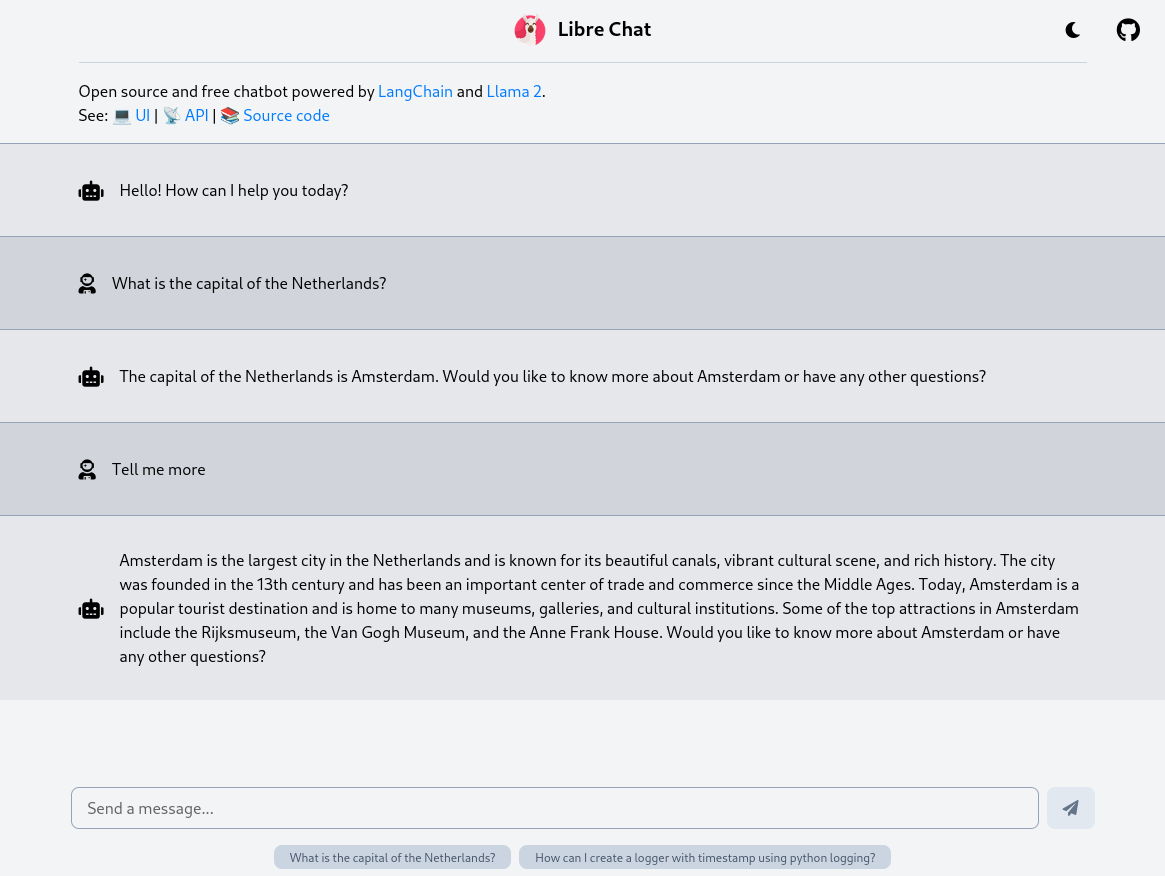
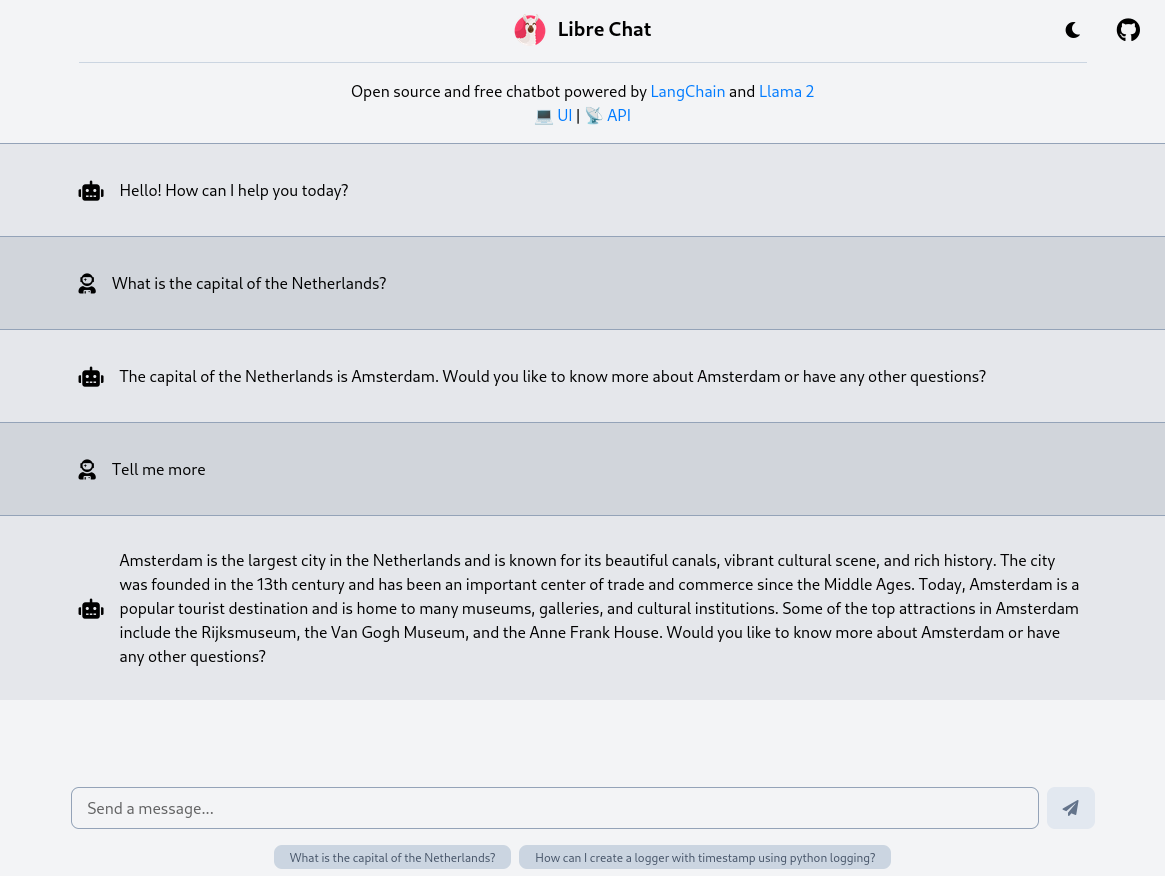
better docs

Changed region(s): [[0.0618, 0.0925, 0.6798, 0.1541]]

diff --git a/src/libre_chat/templates/index.html b/src/libre_chat/templates/index.html
@@ -41,7 +41,7 @@
                         </a>
                     </div>
                 </div>
-                <div id="description" class="py-4">
+                <div id="description" class="py-4 text-center">
                     {{ description }}
                 </div>
             </div>

diff --git a/src/libre_chat/chat_conf.py b/src/libre_chat/chat_conf.py
@@ -23,9 +23,9 @@ class SettingsInfo(BaseSettings):
     examples: List[str] = ["What is the capital of the Netherlands?"]
     title: str = "Libre Chat"
     version: str = "0.1.0"
-    description: str = """Open source and free chatbot powered by [LangChain](https://python.langchain.com) and [Llama 2](https://ai.meta.com/llama).
+    description: str = """Open source and free chatbot powered by [LangChain](https://python.langchain.com) and [Llama 2](https://ai.meta.com/llama)
 
-See: [💻 UI](/) | [📡 API](/docs) | [📚 Source code](https://github.com/vemonet/libre-chat)"""
+[💻 UI](/) | [📡 API](/docs)"""
     public_url: str = "https://your-endpoint-url"
     repository_url: str = "https://github.com/vemonet/libre-chat"
     favicon: str = "https://raw.github.com/vemonet/libre-chat/main/docs/assets/logo.png"

diff --git a/tests/test_api.py b/tests/test_api.py
@@ -7,7 +7,7 @@ from tests.main import app
 client = TestClient(app)
 
 
-def test_post_prompt_conversational() -> None:
+def test_post_prompt_conversation() -> None:
     """Test POST prompt using model with a generic LLM"""
     prompt = {"prompt": "What is the capital of the Netherlands?"}
     response = client.post(
@@ -20,7 +20,7 @@ def test_post_prompt_conversational() -> None:
     assert "amsterdam" in resp["result"].lower()
 
 
-def test_get_prompt_conversational() -> None:
+def test_get_prompt_conversation() -> None:
     """Test GET prompt using model with a generic LLM"""
     prompt = {"prompt": "What is the capital of the Netherlands?"}
     response = client.get("/prompt", params={"prompt": prompt})

diff --git a/src/libre_chat/__main__.py b/src/libre_chat/__main__.py
@@ -28,7 +28,6 @@ def start(
     log_config = uvicorn.config.LOGGING_CONFIG
     log_config["formatters"]["access"]["fmt"] = log_format
     log_config["formatters"]["default"]["fmt"] = log_format
-
     conf = parse_config(config)
     llm = Llm(conf=conf)
     app = ChatEndpoint(llm=llm, conf=conf)
@@ -39,7 +38,6 @@ def start(
         reload=False,
         log_level=log_level,
         workers=workers,
-        # log_config=log_config,
     )
 
 

diff --git a/docs/development.md b/docs/development.md
@@ -20,13 +20,7 @@ For development we use [Hatch](https://hatch.pypa.io), this will automatically h
 pipx install hatch
 ```
 
-Download pre-trained model and embeddings for local development:
-
-```bash
-tests/download.sh
-```
-
-??? note "Optionally you can improve `hatch` terminal completion"
+??? info "Optionally you can enable `hatch` terminal completion"
 
     See the [official documentation](https://hatch.pypa.io/latest/cli/about/#tab-completion) for more details. For ZSH you can run these commands:
 
@@ -38,13 +32,13 @@ tests/download.sh
 
 ## 🧑💻 Development workflow
 
-Start a conversational chat web service in development, without vectorstore:
+Start a conversational chat web service, without vectorstore:
 
 ```bash
 hatch run dev
 ```
 
-Start a documents-based question answering agent in development, using a vectorstore:
+Start a documents-based question answering agent, using a vectorstore:
 
 ```bash
 hatch run vector
@@ -52,7 +46,7 @@ hatch run vector
 
 ## ✅ Run the tests
 
-Make sure the existing tests still work by running the test suite and linting checks. Note that any pull requests to the repository on github will automatically trigger running of the test suite.
+Make sure the existing tests still work by running the test suite, types, and linting checks. Note that any pull requests to the repository on github will automatically trigger running of the test suite.
 
 Run the tests locally:
 
@@ -60,35 +54,31 @@ Run the tests locally:
 hatch run test
 ```
 
-To display all logs when debugging:
+Run only a specific test, and display all logs:
 
 ```bash
-hatch run test -s
+hatch run test tests/test_api.py::test_post_prompt_conversation -s
 ```
 
-Run the tests on multiple python versions:
+??? example "Run the tests on the different versions of python available on your machine"
 
-```bash
-hatch run all:test
-```
+    Not required as it is done by the GitHub Actions workflow, but can be useful for debugging:
 
-Run only a specific test:
-
-```bash
-hatch run test tests/test_api.py::test_post_prompt_conversational
-```
+    ```bash
+    hatch run all:test
+    ```
 
 ## 📖 Generate docs
 
 The documentation (this website) is automatically generated from the markdown files in the `docs` folder and python docstring comments, and published by a GitHub Actions workflow.
 
-Serve the docs on [http://localhost:8001](http://localhost:8001){:target="_blank"}
+To check it locally, serve the docs on [http://localhost:8001](http://localhost:8001){:target="_blank"} with:
 
 ```bash
 hatch run docs
 ```
 
-### ♻ Reset the environment
+## ♻ Reset the environment
 
 In case you are facing issues with dependencies not updating properly you can easily reset the virtual environment with:
 
@@ -104,8 +94,41 @@ hatch -v env create
 
 ## 🏷 Publish a new release
 
+The deployment of new releases is done automatically by a GitHub Actions workflow when a new release is created on GitHub. To release a new version:
+
 1. Make sure the `PYPI_TOKEN` secret has been defined in the GitHub repository (in Settings > Secrets > Actions). You can get an API token from PyPI at [pypi.org/manage/account](https://pypi.org/manage/account).
-2. Increment the `__version__` in `libre_chat/__init__.py`
-3. Push to GitHub
-4. Create a new release on GitHub
-5. A GitHub Action workflow will automatically publish the new version to PyPI
+
+2. Increment the `version` number in the `src/libre_chat/__init__.py` file:
+
+    ```bash
+    hatch version 0.1.0
+    # Or bump using semver: patch, minor, major
+    hatch version patch
+    ```
+
+3. Commit, push, and create a new release on GitHub, which will automatically trigger a workflow to publish the new release to PyPI.
+
+??? bug "Or perform the release locally"
+
+    1. Update the version:
+
+        ```bash
+        hatch version 0.1.0
+        # Or bump using semver: patch, minor, major
+        hatch version patch
+        ```
+
+    2. Build and publish:
+
+        ```bash
+        hatch build
+        hatch publish
+        ```
+
+    3. Create the release on GitHub, [manually](https://github.com/vemonet/libre-chat/releases/new) or with the [`gh` CLI](https://cli.github.com/):
+
+        ```bash
+        gh release create
+        ```
+
+<!-- Admonition blocks: https://squidfunk.github.io/mkdocs-material/reference/admonitions/#supported-types -->

diff --git a/docs/index.md b/docs/index.md
@@ -1,8 +1,5 @@
 [![Version](https://img.shields.io/pypi/v/libre-chat)](https://pypi.org/project/libre-chat) [![Python versions](https://img.shields.io/pypi/pyversions/libre-chat)](https://pypi.org/project/libre-chat) [![Image size](https://ghcr-badge.egpl.dev/vemonet/libre-chat/size)](https://github.com/vemonet/libre-chat/pkgs/container/libre-chat){:target="_blank"} [![MIT license](https://img.shields.io/pypi/l/libre-chat)](https://github.com/vemonet/libre-chat/blob/main/LICENSE.txt)
 
-!!! warning "Early stage"
-	Development on this project has just started, use it with caution
-
 Easily configure and deploy a **fully self-hosted chatbot web service** based on open source Large Language Models (LLMs), such as [Llama 2](https://ai.meta.com/llama/), without the need for knowledge in machine learning or programmation.
 
 - 🌐 Free and Open Source chatbot web service with UI and API
@@ -10,8 +7,8 @@ Easily configure and deploy a **fully self-hosted chatbot web service** based on
 - 🚀 Easy to setup, no need to program, just configure the service with a [YAML](https://yaml.org/) file, and start the chat web service with 1 command
 - 📦 Available as a `pip` package 🐍, or `docker` image 🐳
 - ⚡ No need for GPU, this will work even on your laptop CPU (but can take up to 1min to answer on recent laptops, works better on a server)
-- 🦜 Use [`LangChain`](https://python.langchain.com) to support performant open source models inference: all [Llama-2-GGML](https://huggingface.co/TheBloke/Llama-2-7B-Chat-GGML) ([7B](https://huggingface.co/TheBloke/Llama-2-7B-Chat-GGML)/[13B](https://huggingface.co/llamaste/Llama-2-13b-chat-hf)/[70B](https://huggingface.co/llamaste/Llama-2-70b-chat-hf)), all [Llama-2-GPTQ](https://huggingface.co/TheBloke/Llama-2-7b-Chat-GPTQ)
-- 🤖 Various type of agents can be deployed:
+- 🦜 Use [`LangChain`](https://python.langchain.com) to support performant open source models inference: all **Llama 2 GGML** ([7B](https://huggingface.co/TheBloke/Llama-2-7B-Chat-GGML) | [13B](https://huggingface.co/llamaste/Llama-2-13b-chat-hf) | [70B](https://huggingface.co/llamaste/Llama-2-70b-chat-hf)), all **Llama 2 GPTQ** ([7B](https://huggingface.co/TheBloke/Llama-2-7B-chat-GPTQ) | [13B](https://huggingface.co/TheBloke/Llama-2-13B-chat-GPTQ) | [70B](https://huggingface.co/TheBloke/Llama-2-70B-chat-GPTQ))
+- 🤖 Various types of agents can be deployed:
     - **💬 Generic conversation**: do not need any additional training, just configure settings such as the template prompt
     - **📚 Documents-based question answering**: automatically build similarity vectors from locally provided PDF documents, the chatbot will use them to answer your question, and return which documents were used to generate the answer.
 
@@ -21,6 +18,9 @@ Easily configure and deploy a **fully self-hosted chatbot web service** based on
 ![UI screenshot](https://raw.github.com/vemonet/libre-chat/main/docs/assets/screenshot.png)
 
 ![UI screenshot](https://raw.github.com/vemonet/libre-chat/main/docs/assets/screenshot-light.png)
+
+!!! warning "Early stage"
+	Development on this project has just started, use it with caution
 
 ## ℹ How it works
 
@@ -37,6 +37,16 @@ Seasoned developers can also manipulate LLM models, and deploy the API in python
 !!! help "Report issues"
 
     Feel free to create [issues on GitHub](https://github.com/vemonet/libre-chat/issues){:target="_blank"}, if you are facing problems, have a question, or would like to see a feature implemented. Pull requests are welcome!
+
+## 📥 Download supported models
+
+* Llama 2 GGML: [7B](https://huggingface.co/TheBloke/Llama-2-7B-Chat-GGML) | [13B](https://huggingface.co/llamaste/Llama-2-13b-chat-hf) | [70B](https://huggingface.co/llamaste/Llama-2-70b-chat-hf)
+
+* Llama 2 GPTQ: [7B](https://huggingface.co/TheBloke/Llama-2-7B-chat-GPTQ) | [13B](https://huggingface.co/TheBloke/Llama-2-13B-chat-GPTQ) | [70B](https://huggingface.co/TheBloke/Llama-2-70B-chat-GPTQ)
+
+!!! Question "Supporting other models"
+
+    Let us know if you managed to run other models with Libre Chat, or if you would like to see a specific model supported.
 
 <!--
 

diff --git a/README.md b/README.md
@@ -17,8 +17,8 @@ Easily configure and deploy a **fully self-hosted chatbot web service** based on
 - 🚀 Easy to setup, no need to program, just configure the service with a [YAML](https://yaml.org/) file, and start it with 1 command
 - 📦 Available as a `pip` package 🐍, or `docker` image 🐳
 - ⚡ No need for GPU, this will work even on your laptop CPU (but can take up to 1min to answer on recent laptops, works better on a server)
-- 🦜 Use [`LangChain`](https://python.langchain.com) to support performant open source models inference: all [Llama-2-GGML](https://huggingface.co/TheBloke/Llama-2-7B-Chat-GGML) ([7B](https://huggingface.co/TheBloke/Llama-2-7B-Chat-GGML)/[13B](https://huggingface.co/llamaste/Llama-2-13b-chat-hf)/[70B](https://huggingface.co/llamaste/Llama-2-70b-chat-hf)), all [Llama-2-GPTQ](https://huggingface.co/TheBloke/Llama-2-7b-Chat-GPTQ)
-- 🤖 Various type of agents can be deployed:
+- 🦜 Use [`LangChain`](https://python.langchain.com) to support performant open source models inference: all **Llama 2 GGML** ([7B](https://huggingface.co/TheBloke/Llama-2-7B-Chat-GGML) | [13B](https://huggingface.co/llamaste/Llama-2-13b-chat-hf) | [70B](https://huggingface.co/llamaste/Llama-2-70b-chat-hf)), all [Llama 2 GPTQ](https://huggingface.co/TheBloke/Llama-2-7b-Chat-GPTQ)
+- 🤖 Various types of agents can be deployed:
   - **💬 Generic conversation**: do not need any additional training, just configure settings such as the template prompt
   - **📚 Documents-based question answering**: automatically build similarity vectors from locally provided PDF documents, the chatbot will use them to answer your question, and return which documents were used to generate the answer.
 - 🪶 Modern and lightweight chat web interface, working as well on desktop as on mobile, with support for light/dark theme
@@ -91,9 +91,9 @@ info:
   title: "Libre Chat"
   version: "0.1.0"
   description: |
-    Open source and free chatbot powered by [LangChain](https://python.langchain.com) and [Llama 2](https://ai.meta.com/llama).
+    Open source and free chatbot powered by [LangChain](https://python.langchain.com) and [Llama 2](https://ai.meta.com/llama)
 
-    See: [💻 UI](/) | [📡 API](/docs) | [📚 Source code](https://github.com/vemonet/libre-chat)
+    [💻 UI](/) | [📡 API](/docs)
   examples:
   - "What is the capital of the Netherlands?"
   - "How can I create a logger with timestamp using python logging?"
@@ -245,16 +245,6 @@ Manually trigger installing the dependencies in a local virtual environment:
 ```bash
 hatch -v env create
 ```
-
-### 🏷 New release process
-
-The deployment of new releases is done automatically by a GitHub Action workflow when a new release is created on GitHub. To release a new version:
-
-1. Make sure the `PYPI_TOKEN` secret has been defined in the GitHub repository (in Settings > Secrets > Actions). You can get an API token from PyPI at [pypi.org/manage/account](https://pypi.org/manage/account).
-2. Increment the `version` number in the `src/libre_chat/__init__.py` file.
-3. Create a new release on GitHub, which will automatically trigger the publish workflow, and publish the new release to PyPI.
-
-You can also manually trigger the workflow from the Actions tab in your GitHub repository webpage.
 
 ## 🤝 Credits
 

diff --git a/docs/includes/abbreviations.md b/docs/includes/abbreviations.md
@@ -1,0 +1,26 @@
+*[HTML]: Hyper Text Markup Language
+*[LLM]: Large Language Model
+*[LLMs]: Large Language Models
+*[ML]: Machine Learning
+*[DL]: Deep Learning
+*[QA]: Question Answering
+*[API]: Application Programming Interface
+*[UI]: User Interface
+*[CLI]: Command-Line Interface
+*[PyPI]: Python Packaging Index
+*[PyPA]: Python Packaging Authority
+*[PEP]: Python Enhancement Proposal
+*[YAML]: Depending on whom you ask, YAML stands for "Yet Another Markup Language", or "YAML Ain't Markup Language"
+*[JSON]: JavaScript Object Notation
+*[Faiss]: Faiss is a library for efficient similarity search and clustering of dense vectors. It contains algorithms that search in sets of vectors of any size, up to ones that possibly do not fit in RAM. It also contains supporting code for evaluation and parameter tuning.
+*[GGML]: GGML is a C library for machine learning (ML) - the "GG" refers to the initials of its originator (Georgi Gerganov). In addition to defining low-level machine learning primitives (like a tensor type), GGML defines a binary format for distributing large language models (LLMs).
+*[GPTQ]: GPTQ is a quantization algorithm that lightly reoptimizes the weights during quantization so that the accuracy loss is compensated relative to a round-to-nearest quantization. 4-bit GPTQ models reduce VRAM usage by about 75%.
+*[URL]: Uniform Resource Locator
+*[URI]: Uniform Resource Identifier
+*[vectorstore]: A vector store takes care of storing embedded data, and performing vector search for you
+*[GPU]: Graphics Processing Unit
+*[CPU]: Central Processing Unit
+*[TPU]: Tensor Processing Unit
+*[PDF]: Portable Document Format
+*[ZSH]: The Z shell (Zsh) is a Unix shell that can be used as an interactive login shell, and as a command interpreter for shell scripting.
+*[BASH]: The Bourne-Again SHell (BASH) is a Unix shell that can be used as an interactive login shell, and as a command interpreter for shell scripting.

diff --git a/docs/configure-documents-qa.md b/docs/configure-documents-qa.md
@@ -2,9 +2,13 @@ The whole deployment can be configured from a YAML file: paths to the model and 
 
 Libre Chat can be used to train and deploy a **documents-based question answering agent**
 
-When starting the service Libre Chat will automatically check if the `vectorstore` is already available, if not, it will build it from the provided `documents`. It currently only supports PDF, but more options could be easily added, let us know if you need something in the issues.
+When starting the service Libre Chat will automatically check if the `vectorstore` is already available, if not, it will build it from the provided `documents`.
 
-Below is an example of configuration using the Llama 2 7B GGML model, with a FAISS vectorstore, to deploy a question answering agent that will source its answers from the documents provided in the `./documents` folder:
+!!! Question "Document types to support"
+
+    We currently only support PDF, but more options could be easily added, let us know if you need something in the [issues](https://github.com/vemonet/libre-chat/issues).
+
+Below is an example of configuration using the Llama 2 7B GGML model, with a Faiss vectorstore, to deploy a question answering agent that will source its answers from the documents provided in the `./documents` folder:
 
 ```yaml title="chat.yml"
 llm:
@@ -44,9 +48,9 @@ info:
   title: "Libre Chat"
   version: "0.1.0"
   description: |
-    Open source and free chatbot powered by [LangChain](https://python.langchain.com) and [Llama 2](https://ai.meta.com/llama).
+    Open source and free chatbot powered by [LangChain](https://python.langchain.com) and [Llama 2](https://ai.meta.com/llama)
 
-    See: [💻 UI](/) | [📡 API](/docs) | [📚 Source code](https://github.com/vemonet/libre-chat)
+    [💻 UI](/) | [📡 API](/docs)
   examples:
   - What is the capital of the Netherlands?
   - How can I create a logger with timestamp using python logging?

diff --git a/docs/configure-conversation.md b/docs/configure-conversation.md
@@ -1,6 +1,6 @@
 Create a `chat.yml` file with your configuration before starting the web service.
 
-Below is an example of configuration using the llama-2 7B GGML model, without vectorstore, to deploy a **generic conversational agent**
+Below is an example of configuration using the Llama 2 7B GGML model, without vectorstore, to deploy a **generic conversational agent**
 
 ```yaml title="chat.yml"
 llm:
@@ -39,9 +39,9 @@ info:
   title: "Libre Chat"
   version: "0.1.0"
   description: |
-    Open source and free chatbot powered by [LangChain](https://python.langchain.com) and [Llama 2](https://ai.meta.com/llama).
+    Open source and free chatbot powered by [LangChain](https://python.langchain.com) and [Llama 2](https://ai.meta.com/llama)
 
-    See: [💻 UI](/) | [📡 API](/docs) | [📚 Source code](https://github.com/vemonet/libre-chat)
+    [💻 UI](/) | [📡 API](/docs)
   examples:
   - "What is the capital of the Netherlands?"
   - "How can I create a logger with timestamp using python logging?"

diff --git a/docs/use-docker.md b/docs/use-docker.md
@@ -1,5 +1,7 @@
 [![Image size](https://ghcr-badge.egpl.dev/vemonet/libre-chat/size)](https://github.com/vemonet/libre-chat/pkgs/container/libre-chat){:target="_blank"}
 
+Libre Chat is available as a [docker image](https://github.com/vemonet/libre-chat/pkgs/container/libre-chat), it is recommended to use docker for deploying in production as it uses gunicorn to run multiple workers.
+
 ## ⚡ Quickstart
 
 If you just want to quickly deploy it using the pre-trained model `Llama-2-7B-Chat-GGML`, you can use docker:
@@ -22,6 +24,8 @@ docker run -it -p 8000:8000 ghcr.io/vemonet/libre-chat:main
           - ./:/app # Share the whole directory with chat.yml, models, vectorstore
         ports:
           - 8000:8000
+        environment:
+          - LIBRECHAT_WORKERS=8
     ```
 
 3. Start your chat web service with:

diff --git a/docs/use-pip.md b/docs/use-pip.md
@@ -2,6 +2,10 @@
 
 `libre-chat` is tested on Linux and Windows. Tests fails on MacOS, please let us know if you had any chances running it on your Mac.
 
+!!! Tip "Production deployment"
+
+    When deploying in production it is recommended to use [docker](https://www.docker.com), or directly [gunicorn](https://gunicorn.org), to handle many requests. The CLI is mainly used for local testing and building vectorstores.
+
 ## 📦 Install
 
 Install from [PyPI](https://pypi.org/project/libre-chat/){:target="_blank"} with `pipx` or `pip`:
